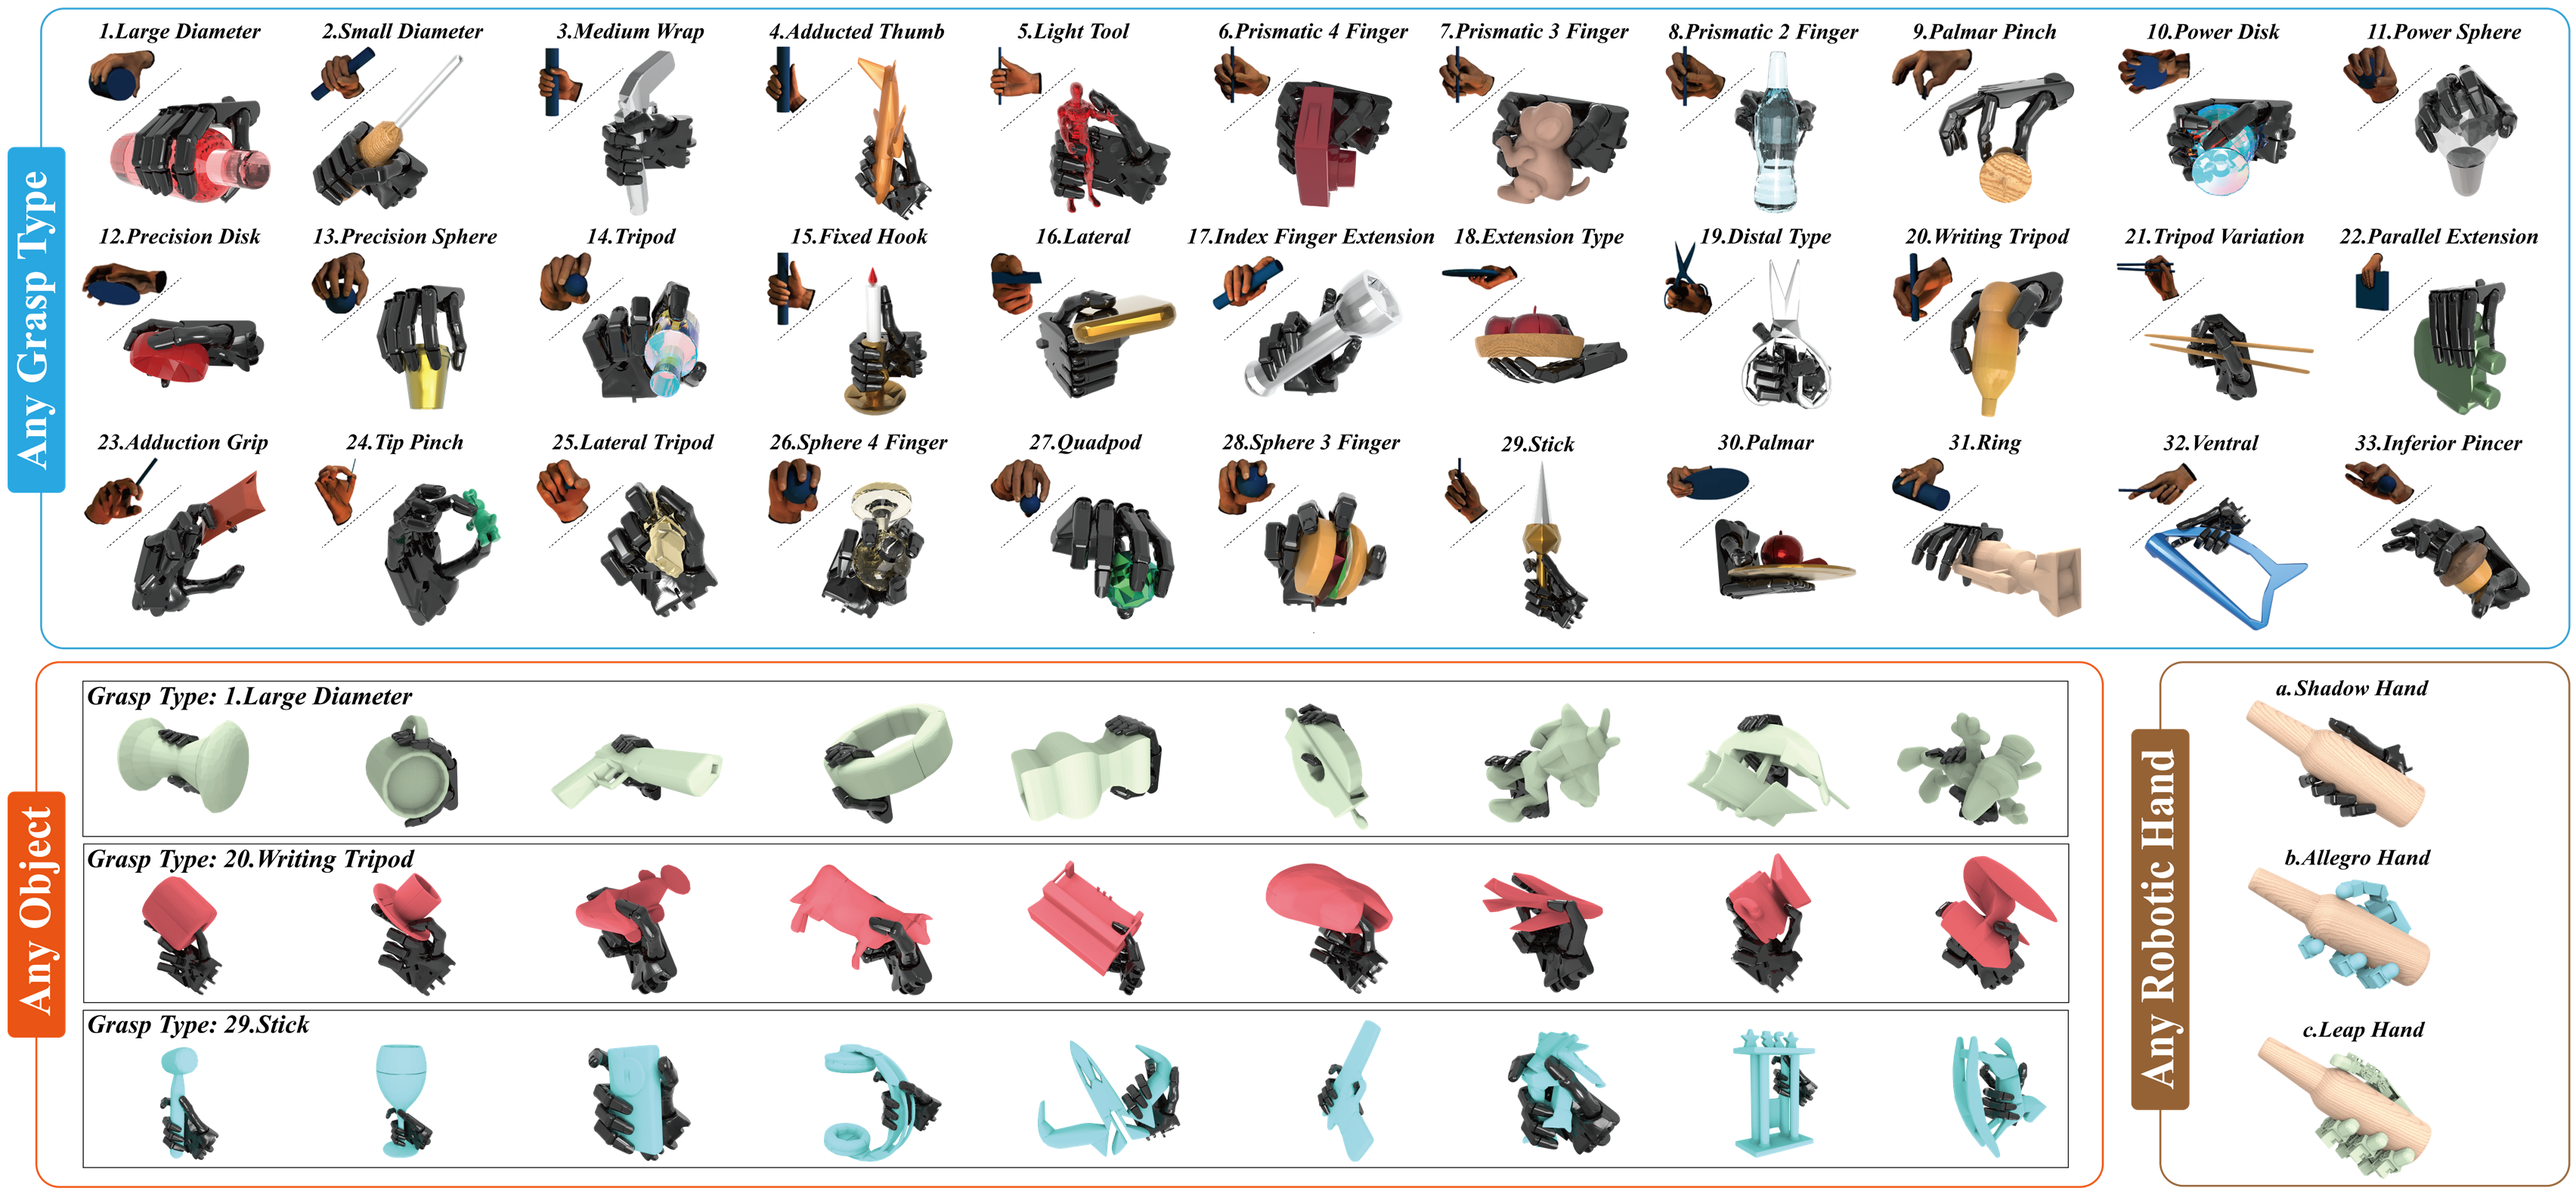
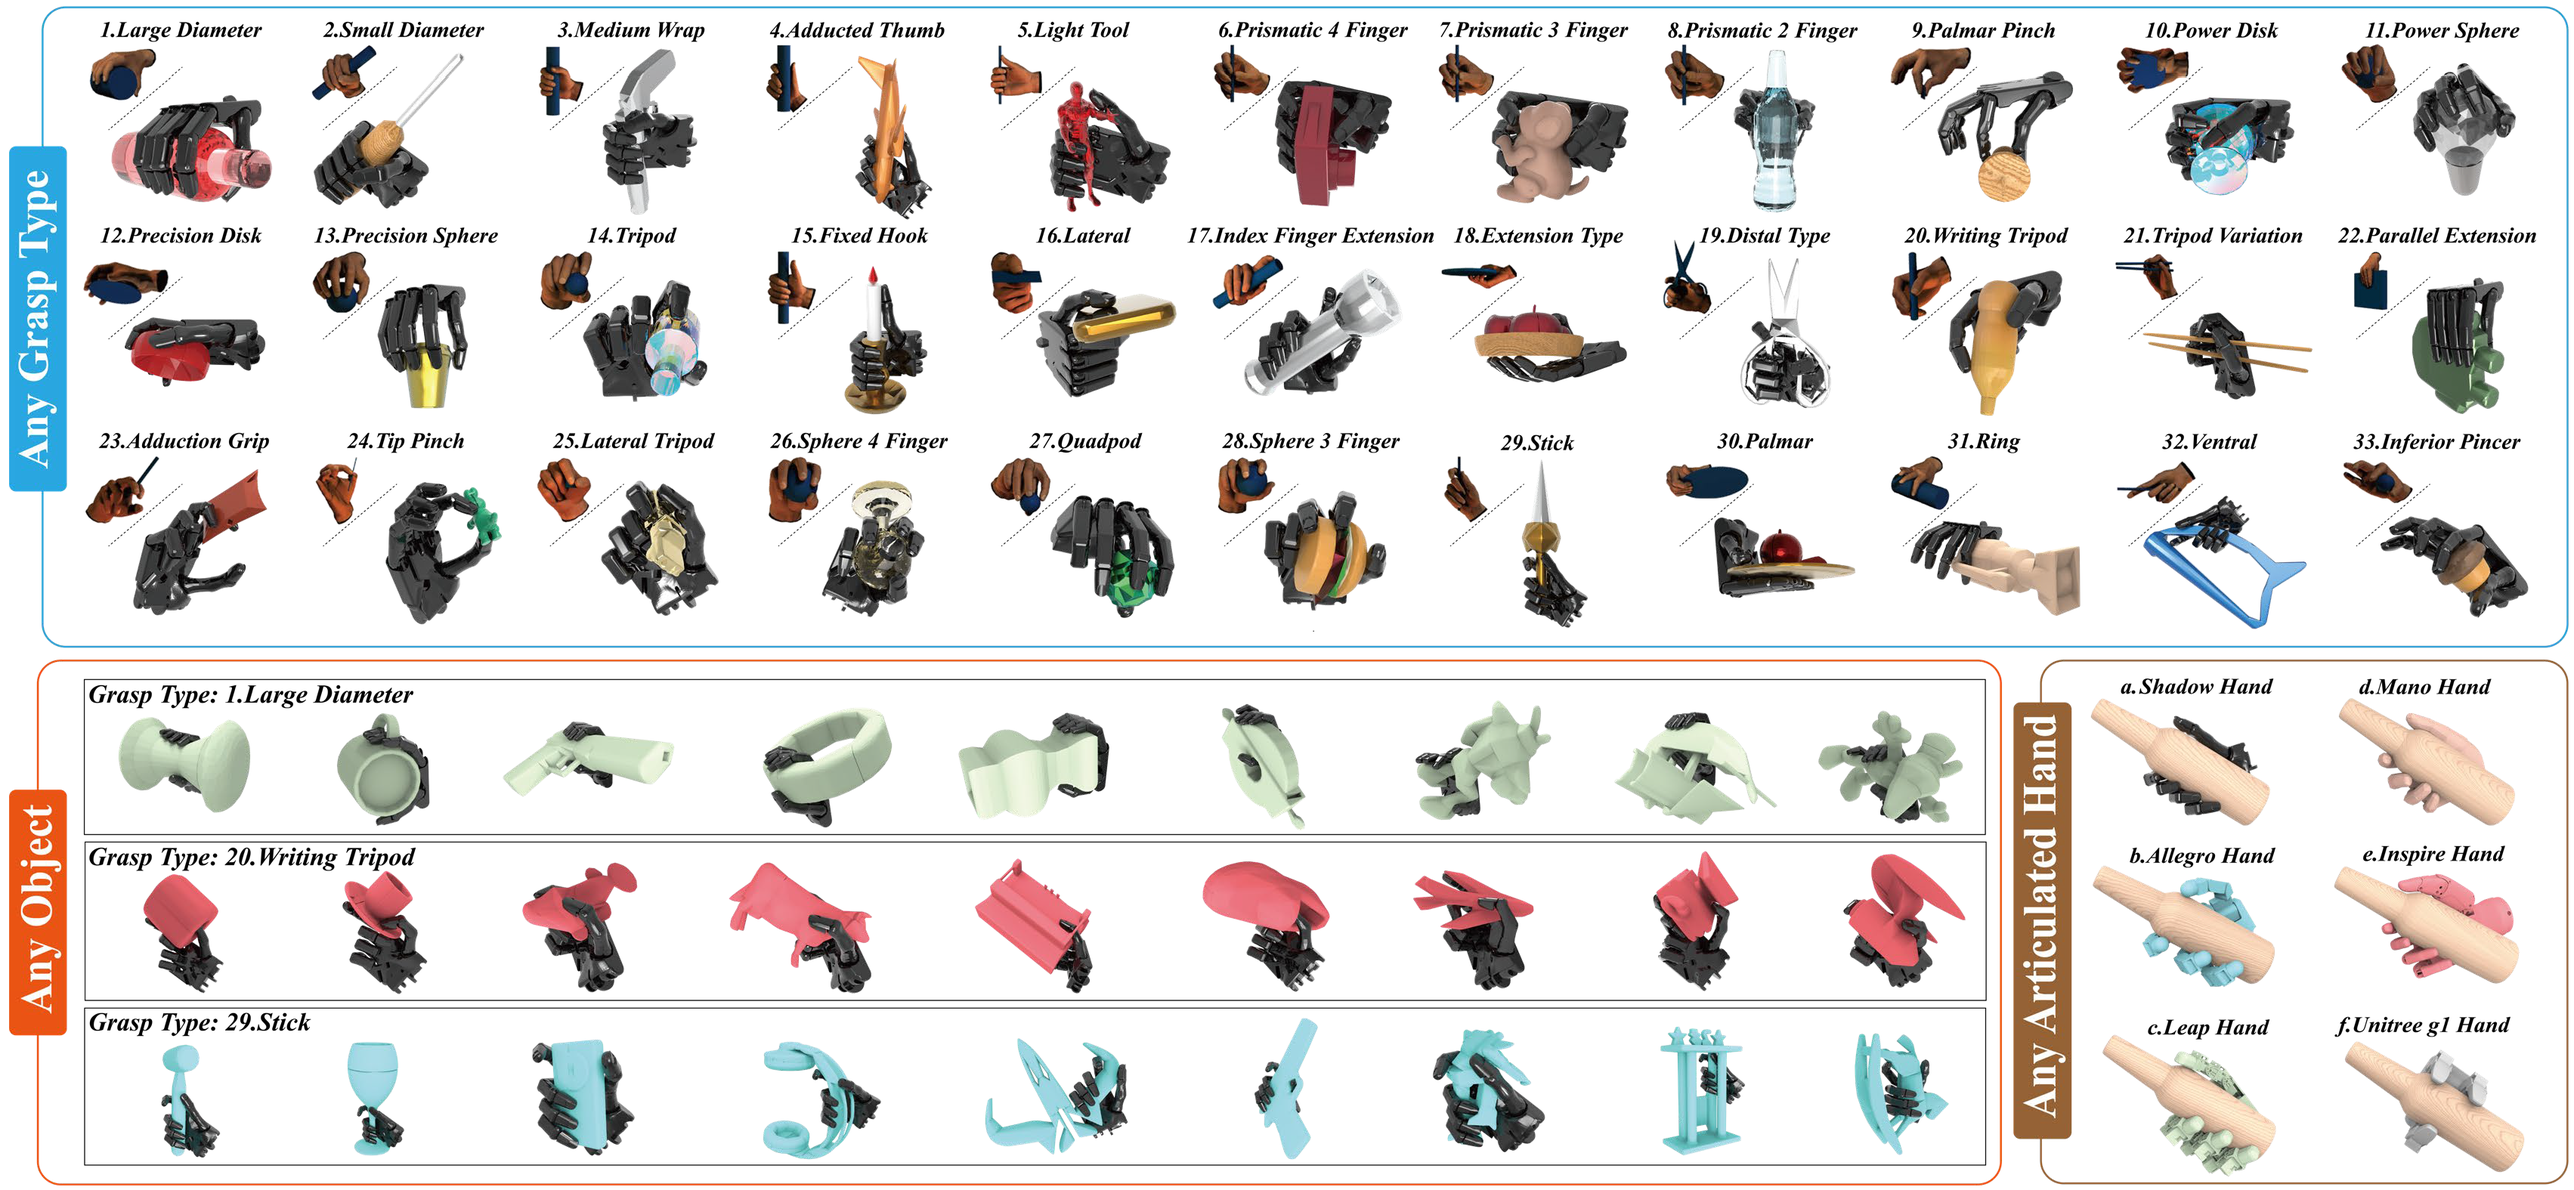
remove changeable object scale

diff --git a/dexonomy/task/syn_object_align.py b/dexonomy/task/syn_object_align.py
@@ -17,7 +17,6 @@ from dexonomy.util.torch_rot_util import (
     torch_normalize_vector,
     torch_pose_multiply,
     torch_inv_transform_points,
-    se3_angle_distance,
 )
 from dexonomy.data.obj_loader import get_object_dataloader
 from dexonomy.data.hand_loader import HandTemplateLibrary
@@ -70,8 +69,7 @@ class ObjectAligner:
         hand_evolution_num,
         sampled_rot,
         sampled_trans,
-        sampled_scale,
-        scale_range,
+        obj_scale,
         wf_sof_pose,
         wf_ogc,
         wf_ogd,
@@ -84,19 +82,13 @@ class ObjectAligner:
         opt_q.requires_grad_()
         opt_t = sampled_trans
         opt_t.requires_grad_()
-        opt_s = sampled_scale.clone()
-        opt_s.requires_grad_()
-
         optimizer = torch.optim.Adam(
-            [
-                {"params": opt_q, "lr": 1e-2},
-                {"params": opt_t, "lr": 1e-2},
-                {"params": opt_s, "lr": 1e-3},
-            ]
+            [{"params": opt_q, "lr": 1e-2}, {"params": opt_t, "lr": 1e-2}]
         )
 
         b, h = opt_t.shape[:-1]
         n_points = nf_hc.shape[-2]
+        obj_scale = obj_scale.view(b, 1, 1, 3)
 
         if self.buffer_shape != torch.Size([b, h, n_points]):
             self.out_points = torch.zeros([b, h, n_points, 3], device=self.device)
@@ -108,7 +100,7 @@ class ObjectAligner:
             optimizer.zero_grad()
             opt_r = torch_quaternion_to_matrix(opt_q)
             of_hc = torch_transform_points(
-                nf_hc, opt_r, opt_t.view(b, h, 1, 3), 1 / opt_s.view(b, h, 1, 1)
+                nf_hc, opt_r, opt_t.view(b, h, 1, 3), 1 / obj_scale
             )
 
             of_op, of_on = MeshQueryPoint.apply(
@@ -119,24 +111,16 @@ class ObjectAligner:
                 collision_mesh_id,
             )
 
-            loss_dist = ((opt_s.view(b, h, 1, 1) * (of_op - of_hc[..., :3])) ** 2).sum(
+            loss_dist = ((obj_scale * (of_op - of_hc[..., :3])) ** 2).sum(
                 dim=-1
             )  # [b,h,n]
             loss_normal = ((of_on - of_hc[..., 3:]) ** 2).sum(dim=-1)  # [b,h,n]
-            loss_penalty = ((sampled_scale - opt_s) ** 2).view(b, h, 1)
-            loss = (
-                (1000 * loss_dist + loss_normal + 100 * loss_penalty)
-                .mean(dim=-1)
-                .mean(dim=-1)
-                .sum()
-            )
+            loss = (1000 * loss_dist + loss_normal).mean(dim=-1).mean(dim=-1).sum()
             if i == self.opt_iter - 1:
                 break
 
             loss.backward()
             optimizer.step()
-            with torch.no_grad():
-                opt_s.clamp_(min=scale_range[0], max=scale_range[1])
 
         with torch.no_grad():
             if self.loss_filter.enable:
@@ -159,7 +143,7 @@ class ObjectAligner:
 
             sof_nf_quat = torch_normalize_vector(opt_q)
             sof_nf_rot = torch_quaternion_to_matrix(sof_nf_quat)
-            sof_nf_trans = opt_t.view(b, h, 1, 3) * opt_s.view(b, h, 1, 1)
+            sof_nf_trans = opt_t.view(b, h, 1, 3) * obj_scale
 
             wf_sof_rot = torch_quaternion_to_matrix(wf_sof_pose[..., 3:]).view(
                 b, 1, 3, 3
@@ -170,12 +154,8 @@ class ObjectAligner:
                 wf_sof_rot, wf_sof_trans, sof_nf_rot, sof_nf_trans
             )
 
-            wf_hc = torch_transform_points(
-                of_hc, wf_sof_rot, wf_sof_trans, opt_s.view(b, h, 1, 1)
-            )
-            wf_op = torch_transform_points(
-                of_op, wf_sof_rot, wf_sof_trans, opt_s.view(b, h, 1, 1)
-            )
+            wf_hc = torch_transform_points(of_hc, wf_sof_rot, wf_sof_trans, obj_scale)
+            wf_op = torch_transform_points(of_op, wf_sof_rot, wf_sof_trans, obj_scale)
             wf_on = torch_transform_points(of_on, wf_sof_rot)
 
             wf_hf_rot, wf_hf_trans = torch_pose_multiply(
@@ -195,7 +175,9 @@ class ObjectAligner:
                 "hand_evolution_num": hand_evolution_num.view(b * h)[loss_valid_idx],
                 "obj_cp": wf_op.view(b * h, -1, 3)[loss_valid_idx],
                 "obj_cn": wf_on.view(b * h, -1, 3)[loss_valid_idx],
-                "obj_scale": opt_s.view(b * h, 1)[loss_valid_idx],
+                "obj_scale": obj_scale.repeat(1, h, 1, 1).view(b * h, 3)[
+                    loss_valid_idx
+                ],
                 "collision_mesh_id": collision_mesh_id[parallel_id_lst],
                 "parallel_id_lst": parallel_id_lst,
                 "obj_pose": wf_sof_pose.repeat_interleave(h, dim=0)[loss_valid_idx],
@@ -248,10 +230,8 @@ class ObjectAligner:
 
         if self.fps_filter["enable"]:
             fps_valid_idx = self.fps_based_filter(
-                result_dict["grasp_pose"],
-                # result_dict["obj_cp"],
-                # result_dict["obj_pose"],
-                result_dict["obj_scale"],
+                result_dict["obj_cp"],
+                result_dict["obj_pose"],
                 result_dict["parallel_id_lst"],
                 self.fps_filter["max_num"],
                 self.fps_filter["min_dist"],
@@ -305,7 +285,7 @@ class ObjectAligner:
             wf_hsk,
             torch_quaternion_to_matrix(obj_pose[..., 3:]),
             obj_pose[..., :3].view(-1, 1, 3),
-            obj_scale.view(-1, 1, 1),
+            obj_scale.view(-1, 1, 3),
         )
         out_valid_idx = MeshLineSegCollision(
             of_hsk, collision_mesh_id, self.coll_buf[:query_shape]
@@ -331,6 +311,7 @@ class ObjectAligner:
             for i in range(batch_num):
                 start = i * max_batch_size
                 end = min((i + 1) * max_batch_size, obj_points.shape[0])
+
                 _, qp_error[start:end] = get_qp_error_batched(
                     obj_points[start:end],
                     obj_normals[start:end],
@@ -348,33 +329,28 @@ class ObjectAligner:
                     gravity_center[i].cpu().numpy(),
                 )
 
-        # from dexonomy.util.vis_util import get_arrow_mesh
-        # import trimesh
-
-        # pm, am = get_arrow_mesh(
-        #     obj_points[-1].cpu().numpy(), obj_normals[-1].cpu().numpy()
-        # )
-        # trimesh.util.concatenate([pm, am]).export("debug.obj")
-        # import pdb
-
-        # pdb.set_trace()
         out_valid_idx = qp_error < self.qp_filter["threshold"]
         return out_valid_idx
 
     @torch.no_grad()
     def fps_based_filter(
-        self, hand_pose, obj_scale, parallel_id_lst, max_num, min_dist
+        self, obj_points, obj_pose, parallel_id_lst, max_num, min_dist
     ):
-        out_valid_idx = torch.zeros(hand_pose.shape[0], device=self.device).bool()
+        of_op = torch_inv_transform_points(
+            obj_points,
+            torch_quaternion_to_matrix(obj_pose[..., 3:]),
+            obj_pose[..., :3].view(-1, 1, 3),
+        )
+        out_valid_idx = torch.zeros(of_op.shape[0], device=self.device).bool()
         of_single_op = {}
         corr_index = {}
         for i in range(parallel_id_lst.shape[0]):
             oi = str(parallel_id_lst[i].data.item())
             if oi not in of_single_op.keys():
-                of_single_op[oi] = [torch.cat([hand_pose[i], obj_scale[i]])]
+                of_single_op[oi] = [of_op[i]]
                 corr_index[oi] = [i]
             else:
-                of_single_op[oi].append(torch.cat([hand_pose[i], obj_scale[i]]))
+                of_single_op[oi].append(of_op[i])
                 corr_index[oi].append(i)
 
         for k, v in of_single_op.items():
@@ -383,14 +359,16 @@ class ObjectAligner:
             rand_start = random.randint(0, all_points.shape[0] - 1)
             valid_points = all_points[rand_start].unsqueeze(0)
             out_valid_idx[corr_index[k][rand_start]] = True
-
             for i in range(min(len(all_points), max_num - 1)):
-                rts_dist = se3_angle_distance(
-                    valid_points.unsqueeze(0), all_points.unsqueeze(1)
-                ).min(dim=-1)[0]
-                farthest_dist, farthest_id = rts_dist.max(dim=-1)
-                # if farthest_dist < min_dist:
-                #     break
+                farthest_dist, farthest_id = (
+                    (valid_points.unsqueeze(0) - all_points.unsqueeze(1))
+                    .norm(dim=-1)
+                    .mean(dim=-1)
+                    .min(dim=-1)[0]
+                    .max(dim=-1)
+                )
+                if farthest_dist < min_dist:
+                    break
                 valid_points = torch.cat(
                     [valid_points, all_points[farthest_id].unsqueeze(0)], dim=0
                 )
@@ -427,7 +405,7 @@ def task_syn_obj(configs):
                     check_dir = os.path.join(
                         configs.init_dir,
                         configs.template_name,
-                        scene_cfg["scene_id"].split("_scale")[0],
+                        scene_cfg["scene_id"],
                         f"{eee}**.npy",
                     )
                     if len(glob(check_dir)) > 0:
@@ -463,8 +441,7 @@ def task_syn_obj(configs):
                     hand_temp_dict["evolution_num"],
                     obj_samples["sampled_rot"],
                     obj_samples["sampled_trans"],
-                    obj_samples["sampled_scale"],
-                    task_config.object.scale_range,
+                    obj_samples["obj_scale"],
                     obj_samples["wf_sof_pose"],
                     obj_samples["wf_ogc"],
                     obj_samples["wf_ogd"],
@@ -488,7 +465,6 @@ def task_syn_obj(configs):
                     hand_evolution_num,
                     obj_cp,
                     obj_cn,
-                    obj_scale,
                     obj_id,
                     obj_gc,
                 ) in enumerate(
@@ -499,20 +475,16 @@ def task_syn_obj(configs):
                         result_dict["hand_evolution_num"],
                         result_dict["obj_cp"],
                         result_dict["obj_cn"],
-                        result_dict["obj_scale"],
                         result_dict["parallel_id_lst"],
                         result_dict["obj_gc"],
                     )
                 ):
 
                     scene_cfg = obj_samples["scene_cfg"][obj_id]
-                    scene_cfg["scene"][scene_cfg["interest_obj_name"]]["scale"] = (
-                        np_array32([obj_scale[0], obj_scale[0], obj_scale[0]])
-                    )
                     grasp_dir = os.path.join(
                         configs.init_dir,
                         hand_temp_dict["hand_template_name"],
-                        scene_cfg["scene_id"].split("_scale")[0],
+                        scene_cfg["scene_id"],
                     )
                     os.makedirs(grasp_dir, exist_ok=True)
 

diff --git a/dexonomy/data/obj_loader.py b/dexonomy/data/obj_loader.py
@@ -1,9 +1,7 @@
 import os
-import random
 from glob import glob
 
 import numpy as np
-import torch
 from transforms3d import quaternions as tq
 from torch.utils.data import Dataset, DataLoader
 from torch.utils.data._utils.collate import default_collate
@@ -13,7 +11,6 @@ import logging
 logger = logging.getLogger("trimesh")
 logger.setLevel(logging.ERROR)
 
-from dexonomy.util.file_util import load_json
 from dexonomy.util.np_rot_util import (
     np_array32,
     np_normal_to_rot,
@@ -21,9 +18,7 @@ from dexonomy.util.np_rot_util import (
 )
 
 
-def sample_init_pose(
-    tm_obj: trimesh.Trimesh, scale_range, init_point_num, init_inplane_num
-):
+def sample_init_pose(tm_obj: trimesh.Trimesh, init_point_num, init_inplane_num):
     # Sample contact points and corresponding normals
     points, tri_ind = trimesh.sample.sample_surface_even(tm_obj, init_point_num)
     more_point_num = init_point_num - points.shape[0]
@@ -39,21 +34,15 @@ def sample_init_pose(
     delta_rot = np_axis_angle_rotation("X", angles).reshape(-1, 1, 3, 3)
     sampled_rot = (rot_base @ delta_rot).reshape(-1, 3, 3)
     sampled_trans = np.tile(points, (init_inplane_num, 1))
-    sampled_scale = (
-        np.random.rand(sampled_trans.shape[0]) * (scale_range[1] - scale_range[0])
-        + scale_range[0]
-    )
-    return sampled_rot, sampled_trans, sampled_scale
+
+    return sampled_rot, sampled_trans
 
 
 class ObjSampleDataset(Dataset):
 
-    def __init__(
-        self, scale_range, init_point_num, init_inplane_num, cfg_path, cfg_num
-    ):
+    def __init__(self, init_point_num, init_inplane_num, cfg_path, cfg_num):
         self.init_point_num = init_point_num
         self.init_inplane_num = init_inplane_num
-        self.scale_range = scale_range
         self.path_lst = np.random.permutation(sorted(glob(cfg_path)))
         if cfg_num is not None and cfg_num > 0:
             self.path_lst = self.path_lst[:cfg_num]
@@ -88,8 +77,8 @@ class ObjSampleDataset(Dataset):
         obj_scale = obj_info["scale"]
         obj_pose = np_array32(obj_info["pose"])
 
-        sampled_rot, sampled_trans, sampled_scale = sample_init_pose(
-            tm_obj, self.scale_range, self.init_point_num, self.init_inplane_num
+        sampled_rot, sampled_trans = sample_init_pose(
+            tm_obj, self.init_point_num, self.init_inplane_num
         )
         wf_ogc = (
             tq.rotate_vector(tm_obj.center_mass * obj_scale, obj_pose[3:])
@@ -101,20 +90,16 @@ class ObjSampleDataset(Dataset):
             if obj["type"] == "plane":
                 collision_plane = np_array32(obj["pose"])
 
-        assert (
-            collision_plane is None
-        ), "Currently do not support to change object scales on table!"
-
         return {
             "scene_cfg": scene_cfg,
             "collision_plane": collision_plane,
             "collision_mesh": (obj_name, tm_obj),
+            "obj_scale": np_array32(obj_scale),
             "wf_sof_pose": np_array32(obj_info["pose"]),
             "wf_ogc": np_array32(wf_ogc),
             "wf_ogd": np_array32(scene_cfg["interest_direction"]),
             "sampled_rot": np_array32(sampled_rot),
             "sampled_trans": np_array32(sampled_trans),
-            "sampled_scale": np_array32(sampled_scale),
         }
 
 
@@ -137,7 +122,6 @@ def _customized_collate_fn(list_data):
 
 def get_object_dataloader(configs, n_worker):
     dataset = ObjSampleDataset(
-        scale_range=configs.scale_range,
         init_point_num=configs.init_point_num,
         init_inplane_num=configs.init_inplane_num,
         cfg_path=configs.cfg_path,

diff --git a/README.md b/README.md
@@ -15,18 +15,17 @@ Official implementation of *Dexonomy: Synthesizing All Dexterous Grasp Types in 
 Our algorithm synthesizes **contact-rich, penetration-free, and physically plausible** dexterous grasps for:
 - Any grasp type
 - Any object
-- Any articulated robotic hand
+- Any articulated hand
 
 All starting from just **one** human-annotated template *per hand and grasp type*.
 
 #### Supported Features
-- Hands: Shadow, Allegro, Leap
+- Hands: Shadow, Allegro, Leap, MANO, Inspire, Unitree_G1
 - Object Scenes: Single (floating & tabletop), Clustered (light clutter)
 - Object Assets: ShapeNet, Objaverse
 - Physics Simulator: MuJoCo
 
 #### Planned Features
-- Hands: MANO, Franka, ... 
 - Object Assets: Articulated objects
 - Motion Synthesis: cuRobo integration, Simulation testing
 
